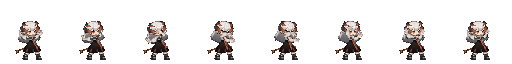
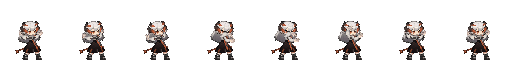
塞雷娅 S3 拳击：蓄力改为收到胸前、不画在毛领上层（用户 10-24 嫌举过头）

diff --git a/tools/op_1x/native_extra.py b/tools/op_1x/native_extra.py
@@ -42,9 +42,9 @@ def hoshiguma():
 # 不拉长也不放大（10-24 用户：放大显得奇怪；拉长 / 放大两列保留为 1.0 方便以后试）。
 # 帧数 / 出手帧与普攻条相同（8 帧，第 4 帧出手），时序由 json 抄普攻的 attack_timing。
 # 每帧：(左上臂, 左前臂, 右上臂, 胸, 手臂拉长, 拳头放大, 提到上层) ；角度为转角增量（度）
-PUNCH = [(0, 0, 0, 0, 1.0, 1.0, False), (20, 45, 20, 4, 1.0, 1.0, False), (28, 70, 35, 6, 1.0, 1.0, True),
-         (-35, -5, -140, -10, 1.0, 1.0, True), (-33, -5, -135, -9, 1.0, 1.0, True), (-15, 15, -70, -4, 1.0, 1.0, True),
-         (0, 25, -20, 0, 1.0, 1.0, True), (5, 10, 0, 0, 1.0, 1.0, False)]
+PUNCH = [(0, 0, 0, 0, 1.0, 1.0, False), (8, 20, 10, 3, 1.0, 1.0, False), (12, 30, 18, 4, 1.0, 1.0, False),   # 蓄力：收到胸前（10-24 用户：原来举过头、手盖住脸）
+         (-35, -5, -140, -10, 1.0, 1.0, True), (-33, -5, -135, -9, 1.0, 1.0, True), (-15, 10, -70, -4, 1.0, 1.0, True),
+         (-5, 10, -20, 0, 1.0, 1.0, False), (0, 5, 0, 0, 1.0, 1.0, False)]
 SARIA_HIDE = ["F_Shield", "F_Weapon", "F_Pinhead"]   # 盾 / 武器已放下
 SARIA_ARMS = ["F_R_Arm", "F_R_Shoulder", "F_R_Hand_C", "F_R_Hand_B", "F_R_Hand",
               "F_L_Arm", "F_L_Shoulder", "F_L_Wrap", "F_L_Ring", "F_L_Hand_C", "F_L_Hand_B", "F_L_Hand", "F_L_Finger", "F_L_Finger_2"]

diff --git a/docs/140_op_anim_audit.md b/docs/140_op_anim_audit.md
@@ -121,5 +121,5 @@ python -X utf8 tools/op_1x/native_extra.py --only hoshiguma,saria               
 - **新帧条**：`op_saria_skill_s3_attack`、`op_saria_move_skill_s3_attack`。json 里时序抄普攻的 `attack_timing`，序列加 `"attack": "skill_s3_attack"`。
 - **代码**：`character._move_swap` 允许技能循环里的普攻变体（`sq_atk`）在移动中换跑动版；`_sq_atk_yield` 在变体有跑动版时不让位。
 - **结果**：录像（`build/anim_move/v2/saria_2.gif`，技能期间照常普攻、走停来回）里循环段的出拳 205 帧，其中移动中 112 帧换成跑动拳击；不出拳时站着播循环、移动播空手跑。
-- **第二版（用户「看不太出来双手，能不能手往前伸」→「拳头好像太大了」→「都不要放大」）**：改成双拳前推。后臂转约 -140° 到身前；出拳几帧把双臂提到白毛领上层画，不拉长也不放大（曾试过手臂 ×1.3、拳头 ×1.4 / ×1.1，用户嫌奇怪）。实机里技能晶柱特效较密，站在队长身前的博士也会挡一部分。
+- **第二版（用户「看不太出来双手，能不能手往前伸」→「拳头好像太大了」→「都不要放大」）**：改成双拳前推。后臂转约 -140° 到身前；出拳几帧把双臂提到白毛领上层画，不拉长也不放大（曾试过手臂 ×1.3、拳头 ×1.4 / ×1.1，用户嫌奇怪）。蓄力两帧只收到胸前、不画在毛领上层（用户「第一帧双手举过头有点奇怪」：原来蓄力抬得太高、手盖住脸）。实机里技能晶柱特效较密，站在队长身前的博士也会挡一部分。
 
